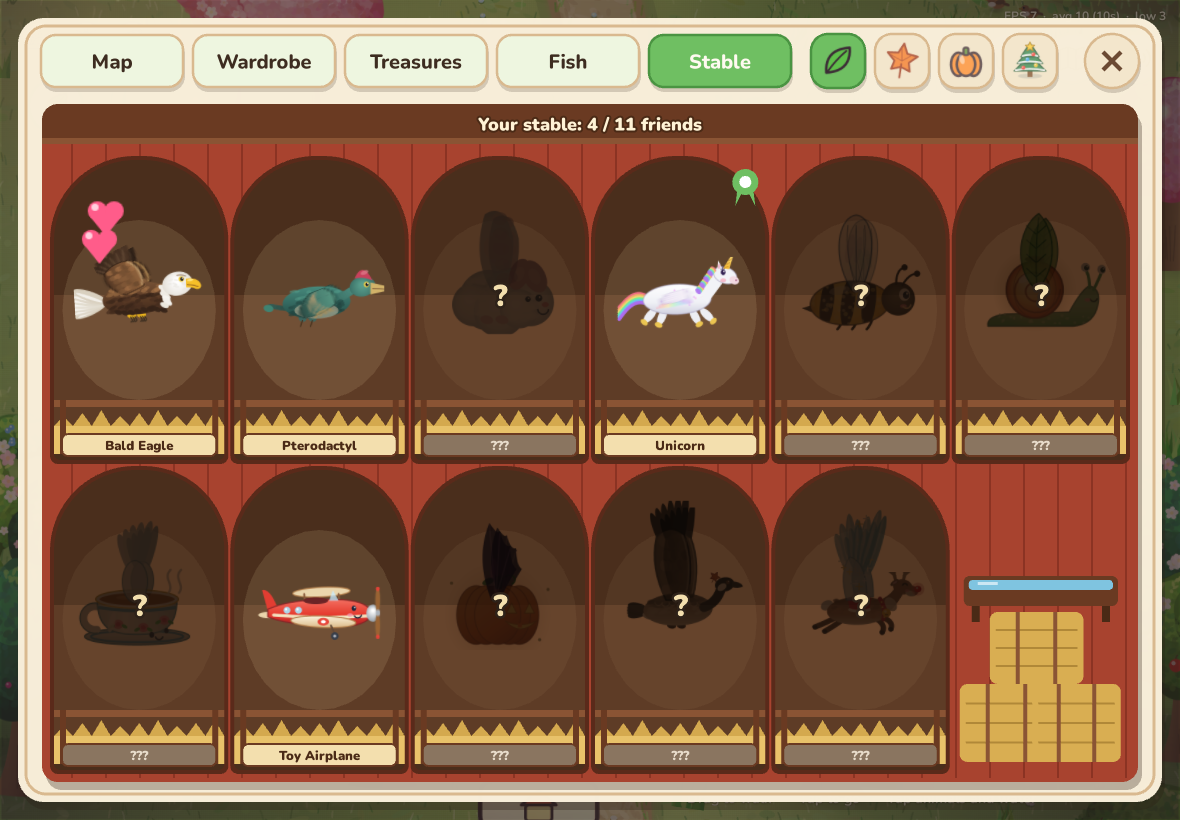
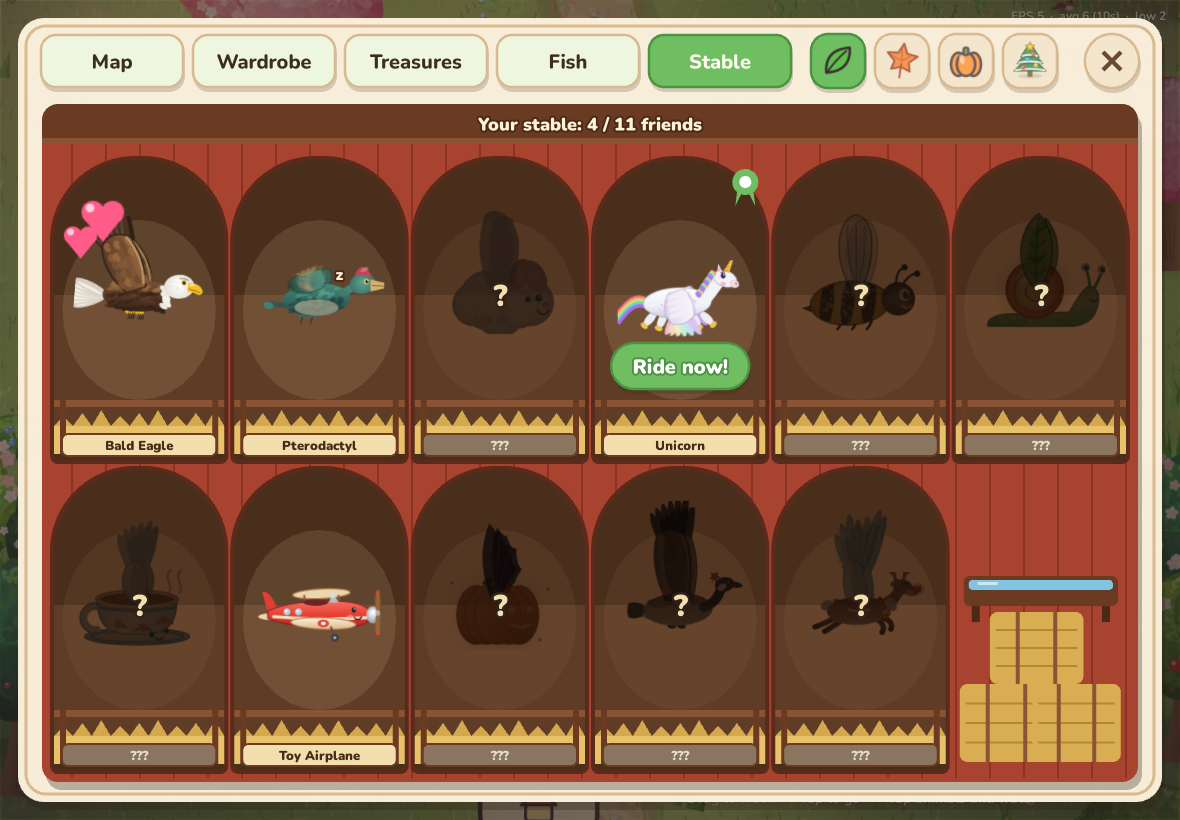
9.38 Mount Stable slice 3: Ride! button from a stall (sets pick, closes satchel, calls the mount), idle life in stalls (look/hop/wiggle/doze), what's new

diff --git a/src/scenes/Menu.ts b/src/scenes/Menu.ts
@@ -1111,11 +1111,42 @@ export class MenuScene extends Phaser.Scene {
 
   // ------------------------------------------------------------ mount stable
   /** 9.38: a barn with a stall for every mount. Unlocked friends flap and bob; locked ones are silhouettes. */
-  stablePets: { id: string; c: Phaser.GameObjects.Container; body: Phaser.GameObjects.Image; wing: Phaser.GameObjects.Image; wingFar: Phaser.GameObjects.Image; m: MountDef; flap: number; ph: number; on: boolean; k: number }[] = [];
+  stablePets: { id: string; c: Phaser.GameObjects.Container; body: Phaser.GameObjects.Image; wing: Phaser.GameObjects.Image; wingFar: Phaser.GameObjects.Image; m: MountDef; flap: number; ph: number; on: boolean; k: number; idleAt?: number }[] = [];
   lastMount = '';
   /** Last petting reaction, for tests: which mount, tap or stroke, and the running heart count. */
   lastPet: { id: string; kind: 'tap' | 'stroke'; hearts: number } | null = null;
   petHearts = 0;
+  idleCount = 0;
+  lastIdle = '';
+  private rideBtn: Phaser.GameObjects.Container | null = null;
+
+  /** Slice 3: a big Ride! button on the friend you just petted. */
+  private showRide(m: MountDef) {
+    this.rideBtn?.destroy(); this.rideBtn = null;
+    for (const k of Object.keys(this.rects)) if (k.startsWith('ride:')) delete this.rects[k];
+    const r = this.rects[`stall:${m.id}`];
+    if (!r) return;
+    const bw = Math.min(r.w - 20, 140), bh = 48;
+    const x = r.x + (r.w - bw) / 2, y = r.y + r.h - 64 - bh - 6;
+    const c = this.add.container(0, 0);
+    const [bg, z] = this.btn(x, y, bw, bh, () => this.rideMount(m), theme.ui.accent, theme.ui.accentDark, 24);
+    const label = this.text(x + bw / 2, y + bh / 2, m.id === currentPick() ? 'Ride now!' : 'Ride!', 20, '#ffffff', 900).setOrigin(0.5).setStroke('#' + theme.ui.accentDark.toString(16).padStart(6, '0'), 4);
+    c.add([bg, z, label]);
+    this.content.add(c);
+    c.setScale(0.6).setAlpha(0);
+    c.setPosition((x + bw / 2) * 0.4, (y + bh / 2) * 0.4);
+    this.tweens.add({ targets: c, scale: 1, x: 0, y: 0, alpha: 1, duration: 220, ease: 'Back.easeOut' });
+    this.rideBtn = c;
+    this.rects[`ride:${m.id}`] = { x, y, w: bw, h: bh };
+  }
+
+  /** Pick this friend as your ride, close the satchel and call it in. */
+  rideMount(m: MountDef) {
+    save.mountPick = m.id; persist();
+    sfx.sparkle();
+    this.close();
+    this.time.delayedCall(180, () => { const mt = this.world.mount; if (mt?.canCall()) mt.call(m.id); });
+  }
   private petSoundAt = 0;
 
   /** Pop a few hearts up out of a stall. */
@@ -1190,10 +1221,11 @@ export class MenuScene extends Phaser.Scene {
     }
     this.hint(`${m.name}! ${m.blurb} Stroke me for more hearts!`);
     this.pet(p, 'tap', p.c.x, p.c.y);
+    this.showRide(m);
   }
 
   renderStable(a: { x: number; y: number; w: number; h: number }) {
-    this.stablePets = [];
+    this.stablePets = []; this.rideBtn = null;
     const list = MOUNTS;
     const got = list.filter(isMountUnlocked).length;
     const cols = Math.ceil(list.length / 2), rows = 2;
@@ -1300,6 +1332,27 @@ export class MenuScene extends Phaser.Scene {
         p.wingFar.setScale(ws * 0.9, sy * 0.88).setRotation(-sweep * 1.15);
       }
       p.body.y = Math.sin(time / 600 + p.ph) * 2.5 / p.k;
+      // Idle life: now and then a friend looks around, hops, wiggles or dozes.
+      if (p.idleAt === undefined) p.idleAt = time + 1200 + Math.random() * 3000;
+      if (time >= p.idleAt) { p.idleAt = time + 3500 + Math.random() * 4500; if (!this.tweens.isTweening(p.c)) this.idle(p); }
+    }
+  }
+
+  private idle(p: { c: Phaser.GameObjects.Container; m: MountDef }) {
+    const y0 = p.c.getData('y0') as number, k0 = p.c.getData('k0') as number;
+    const kinds = ['look', 'hop', 'wiggle', 'doze'] as const;
+    const kind = kinds[Math.floor(Math.random() * kinds.length)];
+    this.idleCount++; this.lastIdle = `${p.m.id}:${kind}`;
+    if (kind === 'look') this.tweens.add({ targets: p.c, scaleX: -k0, duration: 160, yoyo: true, hold: 900, onComplete: () => p.c.setScale(k0) });
+    else if (kind === 'hop') this.tweens.add({ targets: p.c, y: y0 - 10, duration: 140, yoyo: true, repeat: 1, ease: 'Quad.easeOut', onComplete: () => { p.c.y = y0; } });
+    else if (kind === 'wiggle') this.tweens.add({ targets: p.c, rotation: { from: -0.1, to: 0.1 }, duration: 120, yoyo: true, repeat: 2, onComplete: () => { p.c.rotation = 0; } });
+    else {
+      this.tweens.add({ targets: p.c, scaleY: k0 * 0.93, duration: 500, yoyo: true, hold: 900, onComplete: () => p.c.setScale(k0) });
+      for (let i = 0; i < 3; i++) {
+        const z = this.text(p.c.x + 20 + i * 8, y0 - 24, 'z', 16 + i * 4, '#fff3d6', 900).setOrigin(0.5).setStroke('#4a2a16', 4).setAlpha(0);
+        this.content.add(z);
+        this.tweens.add({ targets: z, alpha: { from: 1, to: 0 }, y: z.y - 34, x: z.x + 12, duration: 1100, delay: i * 300, onComplete: () => z.destroy() });
+      }
     }
   }
 

diff --git a/tests/stable.spec.ts b/tests/stable.spec.ts
@@ -85,7 +85,19 @@ test('stable: every mount in a stall, locked ones give hints', async ({ playwrig
       await expect.poll(() => page.evaluate(() => (window as any).__menu.hintText?.text ?? ''), { timeout: 20_000 }).toContain('Golden Honeycomb');
       await tapRect(page, await rect(page, 'stall:goose'));
       await expect.poll(() => page.evaluate(() => (window as any).__menu.hintText?.text ?? ''), { timeout: 20_000 }).toContain('Fall');
-      await page.evaluate(() => (window as any).__menu.close());
+      // Slice 3: friends have idle moments on their own.
+      await expect.poll(() => page.evaluate(() => (window as any).__menu.idleCount), { timeout: 30_000 }).toBeGreaterThanOrEqual(2);
+      // Tap the Toy Airplane, then its Ride! button: it becomes your ride, the satchel closes and it flies in.
+      await page.waitForTimeout(1500);
+      await tapRect(page, await rect(page, 'stall:airplane'));
+      await expect.poll(() => page.evaluate(() => !!(window as any).__menu.rects['ride:airplane']), { timeout: 20_000 }).toBe(true);
+      await page.waitForTimeout(400);
+      await page.screenshot({ path: `${SHOTS}/stable-ride.png` });
+      await tapRect(page, await rect(page, 'ride:airplane'));
+      await expect.poll(() => page.evaluate(() => (window as any).__menu.open), { timeout: 20_000 }).toBe(false);
+      await expect.poll(() => page.evaluate(() => JSON.parse(localStorage.getItem('cozy.save.v2')!).mountPick), { timeout: 10_000 }).toBe('airplane');
+      await expect.poll(() => page.evaluate(() => (window as any).__game.scene.getScene('world').mount.phase), { timeout: 20_000 }).not.toBe('off');
+      expect(await page.evaluate(() => (window as any).__game.scene.getScene('world').mount.def.id)).toBe('airplane');
       await page.waitForTimeout(500);
       expect(errors).toEqual([]);
     } finally { await page.close(); }

diff --git a/src/whatsnew.ts b/src/whatsnew.ts
@@ -3,12 +3,12 @@
 // Keep each bullet short and simple: kids read these.
 // icon: 'wood' | 'fruit' | 'berry' | 'star' | 'heart' (a little picture beside the line).
 
-export const VERSION = '2026-10-23-stable2';
+export const VERSION = '2026-10-23-stable3';
 
 export type WhatsNewItem = { icon: 'wood' | 'fruit' | 'berry' | 'star' | 'heart'; text: string };
 
 export const ITEMS: WhatsNewItem[] = [
-  { icon: 'star', text: 'A stable for your mounts! Open the menu and tap Stable. Tap or stroke a friend to pet it and watch the hearts fly. Tap a dark one for a hint about how to find it.' },
+  { icon: 'star', text: 'A stable for your mounts! Open the menu and tap Stable. Tap or stroke a friend to pet it and watch the hearts fly, then tap Ride! to fly off on it. Tap a dark one for a hint about how to find it.' },
   { icon: 'fruit', text: 'A fish tank! Open the menu and tap Fish. Every fish you catch swims in your tank. Tap one to say hi!' },
   { icon: 'heart', text: 'A treasure cabinet! Open the menu and tap Treasures. Your finds shine under glass. Tap a dark one for a hint about where to look.' },
   { icon: 'berry', text: 'A real paper map! Open the menu and tap Map to see your world on an old map with pins. Tap a pin to learn about that place.' },
